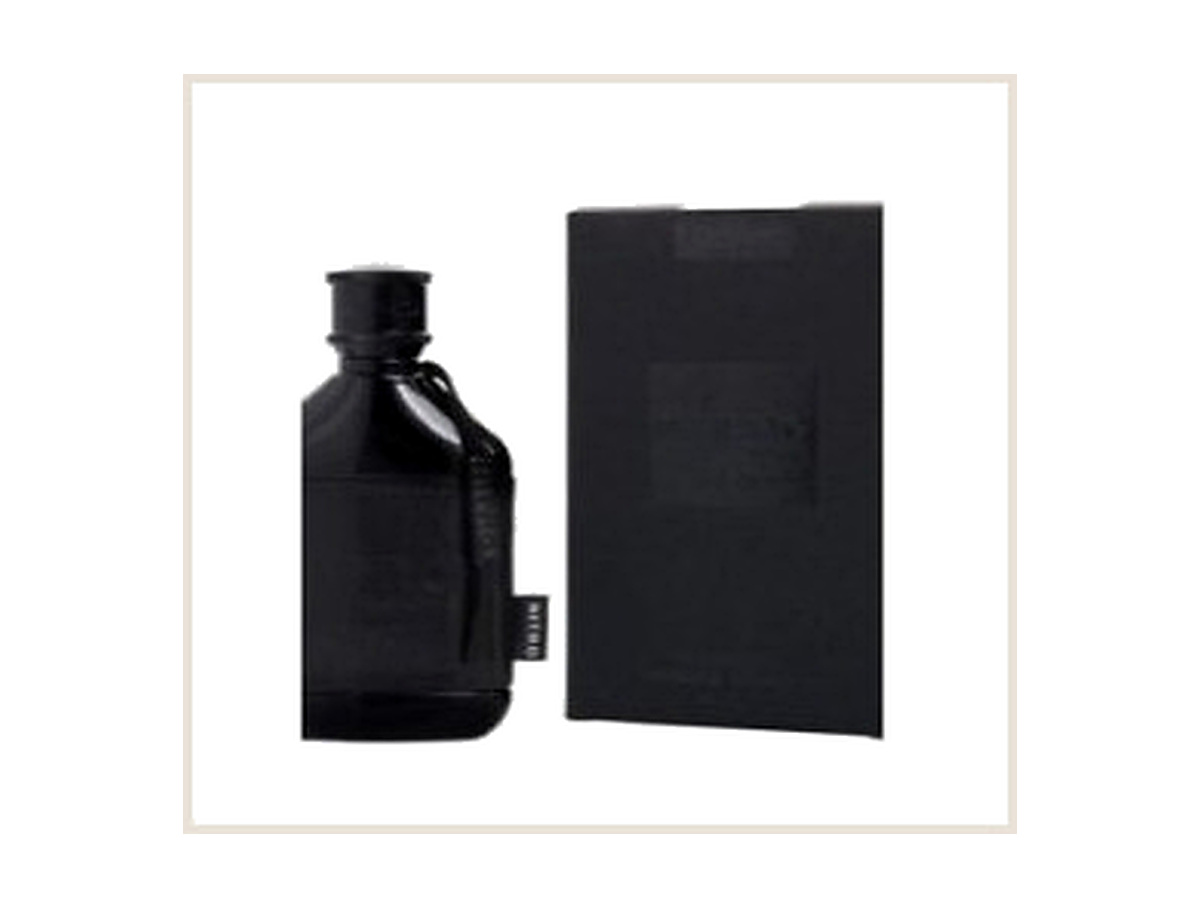
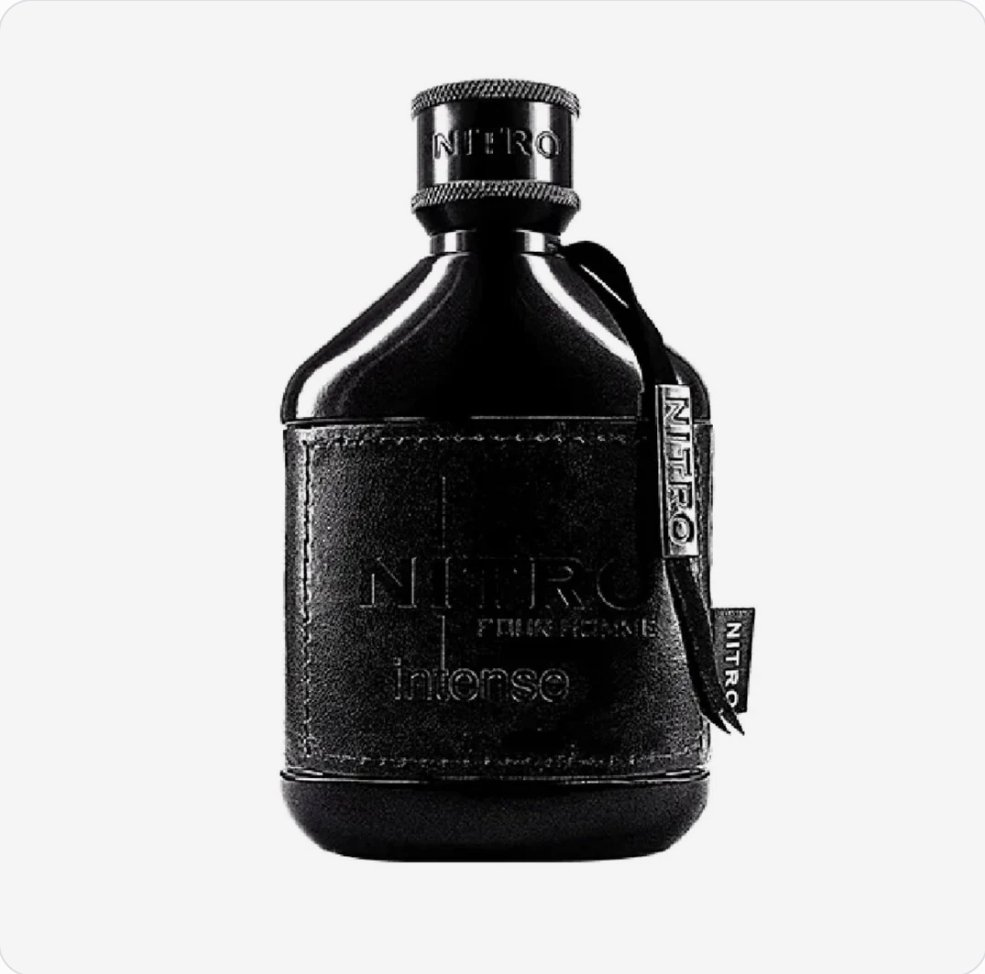
Replace Dumont Nitro Intense photos with Boss's new shots

Changed region(s): [[0.1523, 0.0622, 0.8528, 0.9333], [0.9746, 0.9956, 1.0, 1.0]]

diff --git a/index.html b/index.html
@@ -690,7 +690,7 @@
       // EDIT THIS ONE LIST to update the shop inventory.
       var productsCatalog = [
         { name:'Lattafa Asad Elixir Cologne for Men', niche:'Lattafa · Men · 3.4 oz EDP', direction:'Dark spice, lavender and amber woods', description:'Bold and concentrated, with aromatic spice, smooth lavender and a warm amber-wood finish. Widely considered a Dior Sauvage Elixir-style alternative for commanding evening wear.', category:'amber', images:[{src:'assets/product-lattafa-asad-elixir.jpg', alt:'Lattafa Asad Elixir bottle and black box on a clean white background'},{src:'assets/product-lattafa-asad-elixir-2.jpg', alt:'Lattafa Asad Elixir black bottle on a clean white background'},{src:'assets/product-lattafa-asad-elixir-3.jpg', alt:'Lattafa Asad Elixir black presentation box'}], price:39, decantPrice:10, originalPrice:45, featured:1, paymentLink:'https://buy.stripe.com/3cI9AV2Qx37K7G2e8Xf7i10' },
-        { name:'Dumont Nitro Intense Cologne for Men', niche:'Dumont · Men · 3.4 oz EDP', direction:'Fruity freshness over smoky woods', description:'A vivid opening of fresh fruit and citrus settles into smoky woods and musk. Energetic up top, darker and more grounded through the drydown.', category:'woody', images:[{src:'assets/product-dumont-nitro-intense.jpg', alt:'Dumont Nitro Intense bottle and box — clean packshot'},{src:'assets/gallery-dumont-nitro-intense-1.jpg', alt:'Dumont Nitro Intense Cologne for Men — customer photo 1'},{src:'assets/gallery-dumont-nitro-intense-2.jpg', alt:'Dumont Nitro Intense Cologne for Men — customer photo 2'}], price:37, decantPrice:9, originalPrice:44, featured:2, paymentLink:'https://buy.stripe.com/dRmeVfdvb4bO1hE6Gvf7i11' },
+        { name:'Dumont Nitro Intense Cologne for Men', niche:'Dumont · Men · 3.4 oz EDP', direction:'Fruity freshness over smoky woods', description:'A vivid opening of fresh fruit and citrus settles into smoky woods and musk. Energetic up top, darker and more grounded through the drydown.', category:'woody', images:[{src:'assets/product-dumont-nitro-intense.jpg', alt:'Dumont Nitro Intense black leather bottle on a clean white background'},{src:'assets/gallery-dumont-nitro-intense-1.jpg', alt:'Dumont Nitro Intense bottle and box in a styled smoke composition'},{src:'assets/gallery-dumont-nitro-intense-2.jpg', alt:'Dumont Nitro Intense bottle and box in warm golden light'}], price:37, decantPrice:9, originalPrice:44, featured:2, paymentLink:'https://buy.stripe.com/dRmeVfdvb4bO1hE6Gvf7i11' },
         { name:'Rasasi Hawas Cologne for Men', niche:'Rasasi · Men · 3.38 oz EDP', direction:'Aquatic citrus with sweet amber', description:'Bright citrus and crisp aquatic freshness meet a lightly sweet amber-musk base. Clean, vibrant and easy to wear from daytime into the evening.', category:'fresh', images:[{src:'assets/product-rasasi-hawas.jpg', alt:'Rasasi Hawas purple bottle and box on a clean white background'},{src:'assets/product-rasasi-hawas-2.jpg', alt:'Rasasi Hawas purple bottle on a clean white background'}], price:45, decantPrice:11, originalPrice:65, featured:3 , paymentLink:'https://buy.stripe.com/7sY28t0IpaAc8K66Gvf7i12'},
         { name:'Jimmy Choo Illicit Flower Perfume for Women', niche:'Jimmy Choo · Women · 3.3 oz EDT', direction:'Sparkling fruit, rose and soft musk', description:'A graceful fruity-floral blend with a bright opening, delicate rose and a smooth musky finish. Polished, feminine and effortless for everyday wear.', category:'fresh', images:[{src:'assets/product-jimmy-choo-illicit-flower.jpg', alt:'Jimmy Choo Illicit Flower bottle close-up on a clean white background'},{src:'assets/product-jimmy-choo-illicit-flower-2.jpg', alt:'Jimmy Choo Illicit Flower bottle angled view on a clean white background'},{src:'assets/product-jimmy-choo-illicit-flower-3.jpg', alt:'Jimmy Choo Illicit Flower bottle with fresh fruit styling'}], price:59, decantPrice:15, originalPrice:79, featured:4 , paymentLink:'https://buy.stripe.com/dRmdRbfDjfUw4tQ9SHf7i15'},
         { name:'Afnan 9PM Elixir Perfume for Unisex', niche:'Afnan · Unisex · 3.4 oz Parfum Intense', direction:'Aromatic spice and warm vanilla woods', description:'Deep spice and aromatic freshness lead into a rich, smooth base of vanilla-toned woods. A powerful unisex choice with a dressed-up evening feel.', category:'amber', images:[{src:'assets/product-afnan-9pm-elixir.jpg', alt:'Afnan 9PM Elixir bottle and box — clean packshot'},{src:'assets/gallery-afnan-9pm-elixir-1.jpg', alt:'Afnan 9PM Elixir Perfume for Unisex — customer photo 1'}], price:44, decantPrice:11, originalPrice:55, featured:5, paymentLink:'https://buy.stripe.com/00w7sN1Mt5fSe4q0i7f7i16' },
